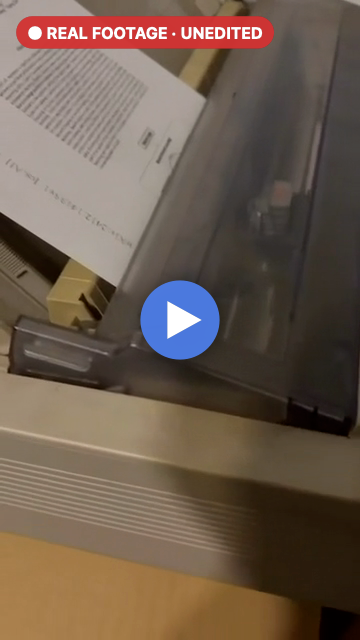
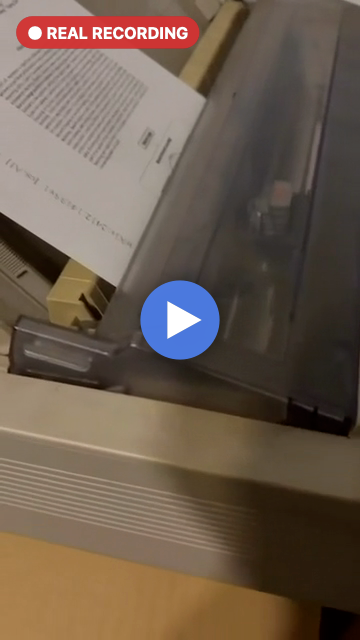
README: present the videos as real recordings from development

Changed region(s): [[0.275, 0.0, 0.7639, 0.0938]]

diff --git a/README.md b/README.md
@@ -22,18 +22,18 @@ Macs, as normal printers you print to with Cmd-P.
 *30-second demo ([MP4](https://karol-domosud.github.io/lpbridge/media/lpbridge-demo.mp4)): the real lpbridge app
 with sample printers. The macOS Print dialog is a mock-up.*
 
-### Real footage
+### Real recordings from development
 
-Unedited, muted recordings from development, with real printers and real paper.
+Recorded in a real environment, with real printers and real paper (muted).
 
 <table>
 <tr>
 <td align="center" valign="top">
-<a href="https://karol-domosud.github.io/lpbridge/media/real-samsung-laser.mp4"><img src="docs/media/real-samsung-laser-poster.png" height="300" alt="Real footage: Samsung ML-2580N laser printing a PDF from macOS Preview"></a><br>
+<a href="https://karol-domosud.github.io/lpbridge/media/real-samsung-laser.mp4"><img src="docs/media/real-samsung-laser-poster.png" height="300" alt="Real recording: Samsung ML-2580N laser printing a PDF from macOS Preview"></a><br>
 <sub><b>Samsung ML-2580N</b> (laser, network): set up in lpbridge, then a PDF printed from Preview. 44 s, recorded with an older 0.6 build.</sub>
 </td>
 <td align="center" valign="top">
-<a href="https://karol-domosud.github.io/lpbridge/media/real-dot-matrix.mp4"><img src="docs/media/real-dot-matrix-poster.png" height="300" alt="Real footage: dot-matrix printer printing a PDF page"></a><br>
+<a href="https://karol-domosud.github.io/lpbridge/media/real-dot-matrix.mp4"><img src="docs/media/real-dot-matrix-poster.png" height="300" alt="Real recording: dot-matrix printer printing a PDF page"></a><br>
 <sub><b>Dot-matrix printer</b>: a regular PDF printed with text and graphics. 39 s.</sub>
 </td>
 </tr>
